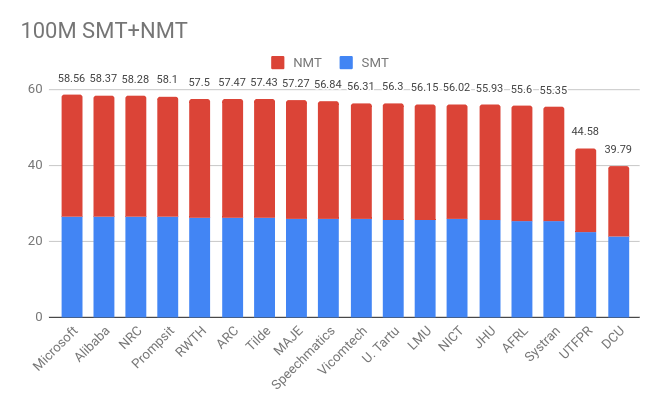
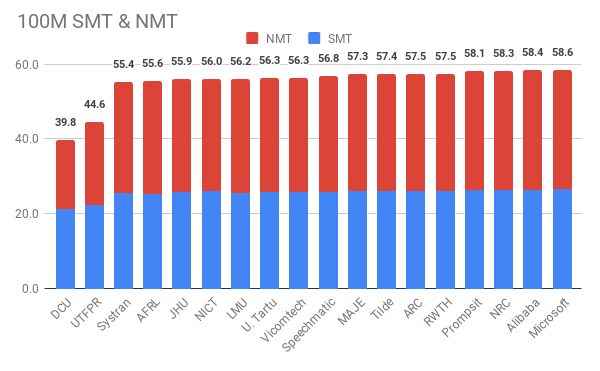
added result plots

diff --git a/results.tex b/results.tex
@@ -15,18 +15,22 @@ We trained the classifier using again the News Commentary parallel corpus. We ge
 We perform some initial experiments using the Common Crawl corpus, under the rationale that it would be closer to the domain of the noisy data belonging to the Paracrawl corpus. However, Common Crawl data has quite a large number of misaligned sentences. This will result in positive data points that in reality were negative which will hinder the learning process of the classifier. We tried an iterative cleaning process so that we were not so reliant in clean, perfectly align data. However, we had to stop exploring this direction due to time constraints.
 
 
-\begin{figure*}
+\begin{figure}[ht]
   \centering
-  \begin{subfigure}[b]{0.45\textwidth}
-    \includegraphics[width=\textwidth]{images/10M_crop.png}
+  \begin{subfigure}[b]{\columnwidth}
+    \hspace*{-1.5em}
+    \includegraphics[width=1.1\textwidth]{images/10M_crop.png}
+    \label{fig:10M}
   \end{subfigure}
   ~
-  \begin{subfigure}[b]{0.45\textwidth}
-    \includegraphics[width=\textwidth]{images/100M_crop.png}
+  \begin{subfigure}[b]{\columnwidth}
+    \hspace*{-1.5em}
+    \includegraphics[width=1.1\textwidth]{images/100M_crop.png}
+    \label{fig:100M}
   \end{subfigure}
-  \caption{Best result of each institution participating in the shared task.}
+  \caption{Best submission of each participant institution. We display Bleu [\%] results stacked for SMT (\textcolor{blue}{blue}) and NMT (\textcolor{red}{red}).}
   \label{fig:results}
-\end{figure*}
+\end{figure}
 
 \subsection{Results}
-
+TBA
